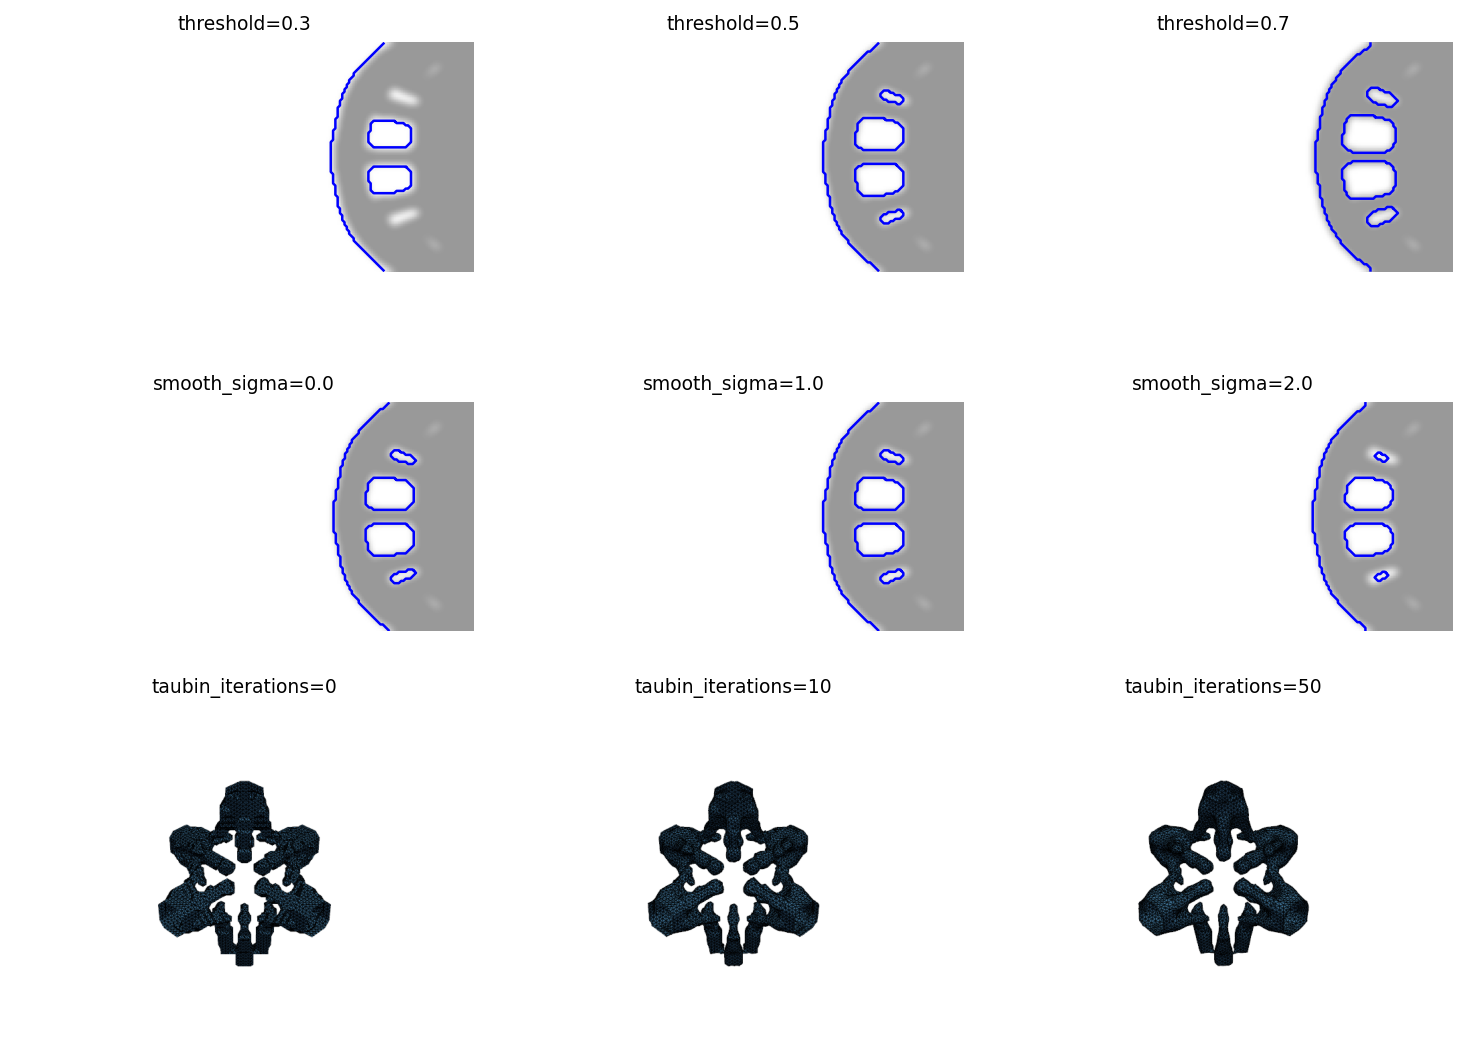
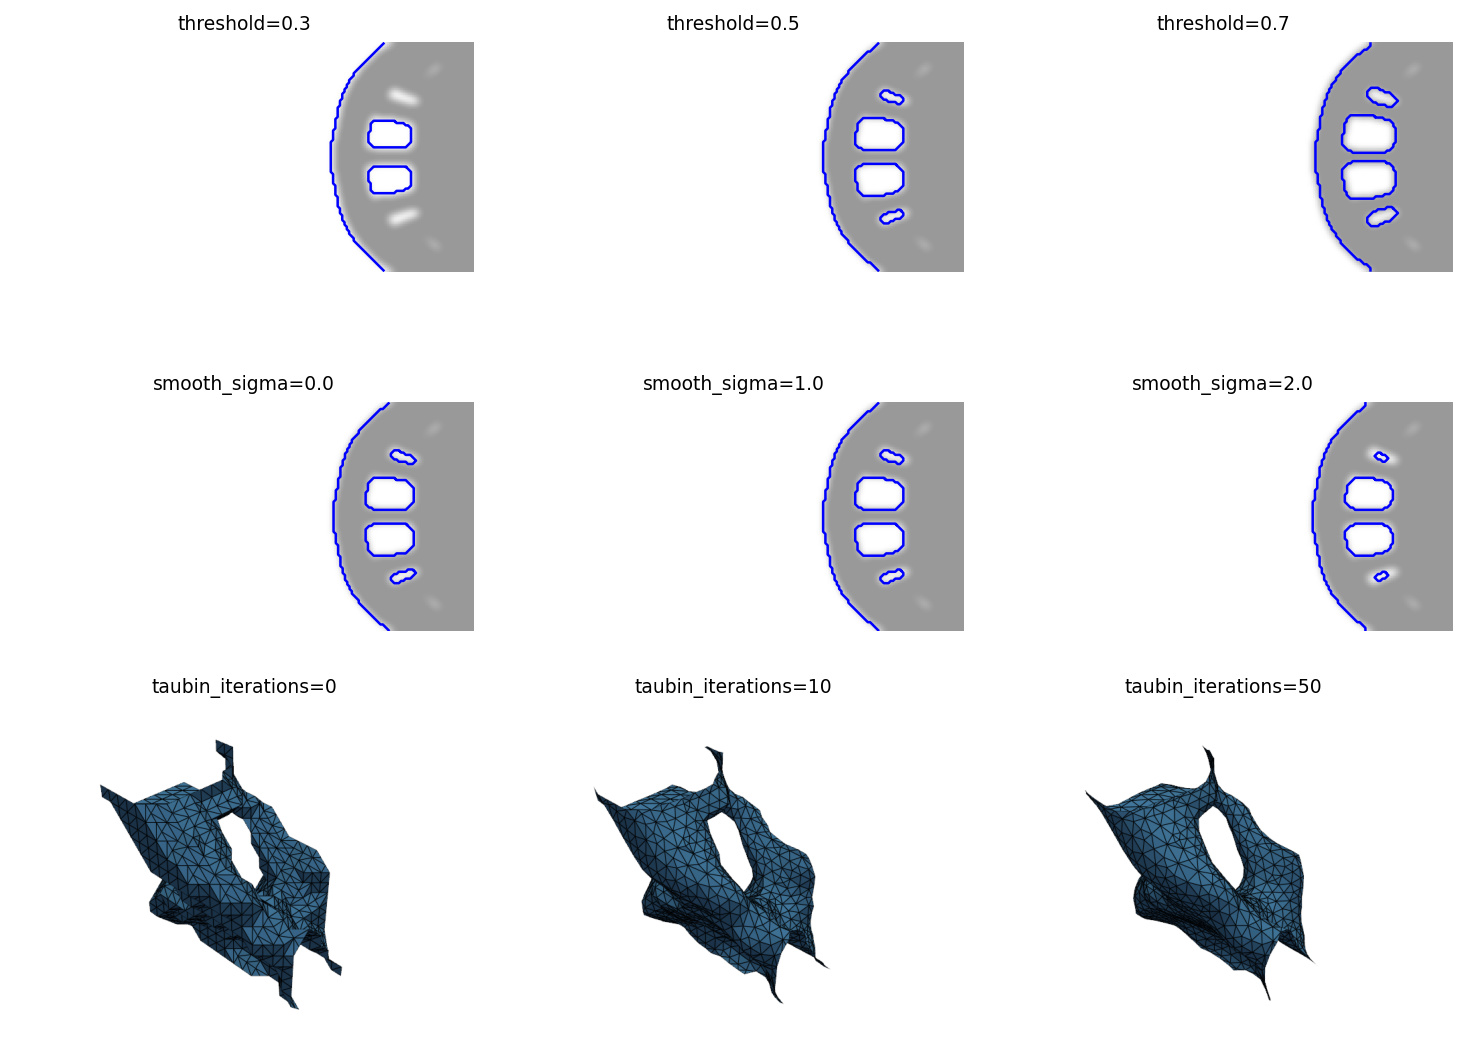
fix: address review feedback on all 5 doc illustrations
- Pipeline diagram: monochromatic blue palette, even spacing
- Pipeline stages: switch to corner model for clearer geometry
- Field types: same colormaps top/bottom, aligned colorbars
- Parameter sensitivity: thermoelastic model for visible taubin diffs
- Quality histogram: extend y-axis to prevent annotation overlap

Changed region(s): [[0.0613, 0.714, 0.2454, 0.9624], [0.7362, 0.714, 0.8896, 0.9313], [0.3988, 0.714, 0.5828, 0.9313]]

diff --git a/scripts/generate_doc_images.py b/scripts/generate_doc_images.py
@@ -22,14 +22,24 @@ OUTPUT_DIR = Path("website/public/images/guides")
 DPI = 150
 BG_COLOR = "white"
 
-# Pipeline stage colors (reused across images 1 and 2)
+# Pipeline stage colors — monochromatic blue palette, dark to light progression
+# Gives visual flow without rainbow noise
 STAGE_COLORS = {
-    "Preprocess": "#4A90D9",
-    "Extract": "#50B86C",
-    "Smooth": "#F5A623",
-    "Repair": "#D0021B",
-    "Remesh": "#9B59B6",
-    "Decimate": "#1ABC9C",
+    "Preprocess": "#1B3A5C",
+    "Extract": "#265E8A",
+    "Smooth": "#3182BD",
+    "Repair": "#6BAED6",
+    "Remesh": "#9ECAE1",
+    "Decimate": "#C6DBEF",
+}
+# Text color per stage (white on dark, dark on light)
+_STAGE_TEXT = {
+    "Preprocess": "white",
+    "Extract": "white",
+    "Smooth": "white",
+    "Repair": "#1a1a1a",
+    "Remesh": "#1a1a1a",
+    "Decimate": "#1a1a1a",
 }
 
 
@@ -65,27 +75,25 @@ def _pv_screenshot(vertices, faces, color="steelblue"):
 
 
 def gen_pipeline_diagram() -> None:
-    """Image 1: Horizontal pipeline flow diagram with 6 colored stage boxes."""
+    """Image 1: Horizontal pipeline flow diagram with even spacing and blue palette."""
+    stages = list(STAGE_COLORS.keys())
+    n_stages = len(stages)
+    # Even spacing: 8 elements (Field + 6 stages + Mesh), gap=1.5 between centers
+    gap = 1.5
+    all_labels = ["Field"] + stages + ["Mesh"]
+    all_x = [i * gap for i in range(len(all_labels))]
+    total_w = all_x[-1]
+
     fig, ax = plt.subplots(figsize=(12, 2.5))
-    ax.set_xlim(-0.5, 12.0)
-    ax.set_ylim(-1.2, 1.5)
+    ax.set_xlim(-0.8, total_w + 0.8)
+    ax.set_ylim(-1.2, 1.3)
     ax.set_aspect("equal")
     ax.axis("off")
     fig.patch.set_facecolor(BG_COLOR)
 
-    # Terminals (rounded, gray)
-    terminals = [("Field", 0.0), ("Mesh", 11.5)]
-    for label, x in terminals:
-        ax.add_patch(matplotlib.patches.FancyBboxPatch(
-            (x - 0.45, -0.3), 0.9, 0.6,
-            boxstyle="round,pad=0.1",
-            facecolor="#E0E0E0", edgecolor="#666666", linewidth=1.5,
-        ))
-        ax.text(x, 0.0, label, ha="center", va="center", fontsize=10, fontweight="bold")
+    box_hw = 0.55  # half-width
+    box_hh = 0.3   # half-height
 
-    # Stage boxes (colored)
-    stages = list(STAGE_COLORS.keys())
-    positions = [1.7, 3.4, 5.1, 6.8, 8.5, 10.0]
     param_annotations = {
         "Preprocess": "threshold\nsmooth_sigma",
         "Extract": "extraction_level",
@@ -95,29 +103,35 @@ def gen_pipeline_diagram() -> None:
         "Decimate": "decimate_ratio\ndecimate_aggressiveness",
     }
 
-    for stage, x in zip(stages, positions, strict=True):
-        color = STAGE_COLORS[stage]
+    for label, x in zip(all_labels, all_x, strict=True):
+        is_terminal = label in ("Field", "Mesh")
+        if is_terminal:
+            fc, ec, tc = "#E8E8E8", "#999999", "#333333"
+        else:
+            fc = STAGE_COLORS[label]
+            ec = "#333333"
+            tc = _STAGE_TEXT[label]
+
         ax.add_patch(matplotlib.patches.FancyBboxPatch(
-            (x - 0.55, -0.3), 1.1, 0.6,
+            (x - box_hw, -box_hh), box_hw * 2, box_hh * 2,
             boxstyle="round,pad=0.08",
-            facecolor=color, edgecolor="black", linewidth=1.2, alpha=0.85,
+            facecolor=fc, edgecolor=ec, linewidth=1.2,
         ))
-        ax.text(x, 0.0, stage, ha="center", va="center", fontsize=8.5,
-                fontweight="bold", color="white")
+        ax.text(x, 0.0, label, ha="center", va="center",
+                fontsize=9 if is_terminal else 8.5, fontweight="bold", color=tc)
 
-        # Parameter annotation below
-        if stage in param_annotations:
-            ax.text(x, -0.65, param_annotations[stage], ha="center", va="top",
-                    fontsize=5.5, color="#555555", fontstyle="italic")
+        # Parameter annotation below stage boxes
+        if label in param_annotations:
+            ax.text(x, -box_hh - 0.35, param_annotations[label],
+                    ha="center", va="top", fontsize=5.5, color="#666666",
+                    fontstyle="italic")
 
-    # Arrows between all boxes: Field -> Preprocess -> ... -> Decimate -> Mesh
-    all_x = [0.0] + positions + [11.5]
+    # Arrows
     for i in range(len(all_x) - 1):
-        x_start = all_x[i] + 0.55
-        x_end = all_x[i + 1] - 0.55
         ax.annotate(
-            "", xy=(x_end, 0.0), xytext=(x_start, 0.0),
-            arrowprops=dict(arrowstyle="->", color="#333333", lw=1.5),
+            "", xy=(all_x[i + 1] - box_hw - 0.05, 0.0),
+            xytext=(all_x[i] + box_hw + 0.05, 0.0),
+            arrowprops=dict(arrowstyle="-|>", color="#555555", lw=1.3),
         )
 
     fig.savefig(OUTPUT_DIR / "pipeline-flow.png", dpi=DPI, bbox_inches="tight",
@@ -126,15 +140,15 @@ def gen_pipeline_diagram() -> None:
 
 
 def gen_pipeline_stages() -> None:
-    """Image 2: 1x4 grid showing pipeline progression on 3D heat conduction data."""
+    """Image 2: 1x4 grid showing pipeline progression on corner 3D model."""
     import numpy as np
     from xeltofab.io import load_field
     from xeltofab.preprocess import preprocess
     from xeltofab.extract import extract
     from xeltofab.smooth import smooth
 
-    # Load real TO data
-    state = load_field("data/examples/heat_conduction_3d_51x51x51_sample0.npy")
+    # Use corner model — simpler geometry, easier to parse visually
+    state = load_field("data/examples/corner_3d_20x20x20_vf50_sample0.npy")
 
     # Run stages individually to capture intermediates
     state_pre = preprocess(state)
@@ -142,7 +156,8 @@ def gen_pipeline_stages() -> None:
     state_smo = smooth(state_ext)
 
     fig, axes = plt.subplots(1, 4, figsize=(12, 3.5))
-    titles = ["Raw Field\n(center slice)", "After Threshold\n(binary)", "Marching Cubes\n(raw mesh)", "After Smoothing"]
+    titles = ["Raw Field\n(center slice)", "After Threshold\n(binary)",
+              "Marching Cubes\n(raw mesh)", "After Smoothing"]
 
     # Panel 1: Center slice of raw density field
     field = state.field
@@ -197,7 +212,9 @@ def gen_field_types() -> None:
     state_sdf = PipelineState(field=sdf_field, params=params_sdf)
     result_sdf = process(state_sdf)
 
-    fig, axes = plt.subplots(2, 2, figsize=(10, 5))
+    vmax_sdf = np.abs(sdf_field).max()
+
+    fig, axes = plt.subplots(2, 2, figsize=(10, 5.5))
 
     # Top-left: Density field heatmap
     im0 = axes[0, 0].imshow(state_density.field, cmap="YlOrRd", origin="lower",
@@ -207,28 +224,33 @@ def gen_field_types() -> None:
     fig.colorbar(im0, ax=axes[0, 0], fraction=0.046, pad=0.04)
 
     # Top-right: SDF field heatmap
-    vmax = np.abs(sdf_field).max()
     im1 = axes[0, 1].imshow(sdf_field, cmap="RdBu", origin="lower",
-                             vmin=-vmax, vmax=vmax)
+                             vmin=-vmax_sdf, vmax=vmax_sdf)
     axes[0, 1].set_title("SDF Field (signed distance)", fontsize=10)
     axes[0, 1].axis("off")
     fig.colorbar(im1, ax=axes[0, 1], fraction=0.046, pad=0.04)
 
-    # Bottom-left: Density field with extracted contours at threshold=0.5
-    axes[1, 0].imshow(state_density.field, cmap="gray_r", origin="lower", alpha=0.5)
+    # Bottom-left: Same density colormap + extracted contours at threshold=0.5
+    im2 = axes[1, 0].imshow(state_density.field, cmap="YlOrRd", origin="lower",
+                             vmin=0, vmax=1)
     if result_density.contours:
         for contour in result_density.contours:
-            axes[1, 0].plot(contour[:, 1], contour[:, 0], "b-", linewidth=1.5)
+            axes[1, 0].plot(contour[:, 1], contour[:, 0], color="#1a1a1a",
+                            linewidth=2.0)
     axes[1, 0].set_title("Extracted at threshold=0.5", fontsize=10)
     axes[1, 0].axis("off")
+    fig.colorbar(im2, ax=axes[1, 0], fraction=0.046, pad=0.04)
 
-    # Bottom-right: SDF field with extracted contours at level=0
-    axes[1, 1].imshow(sdf_field, cmap="gray", origin="lower", alpha=0.4)
+    # Bottom-right: Same SDF colormap + extracted contours at level=0
+    im3 = axes[1, 1].imshow(sdf_field, cmap="RdBu", origin="lower",
+                             vmin=-vmax_sdf, vmax=vmax_sdf)
     if result_sdf.contours:
         for contour in result_sdf.contours:
-            axes[1, 1].plot(contour[:, 1], contour[:, 0], "r-", linewidth=1.5)
+            axes[1, 1].plot(contour[:, 1], contour[:, 0], color="#1a1a1a",
+                            linewidth=2.0)
     axes[1, 1].set_title("Extracted at level=0.0", fontsize=10)
     axes[1, 1].axis("off")
+    fig.colorbar(im3, ax=axes[1, 1], fraction=0.046, pad=0.04)
 
     fig.patch.set_facecolor(BG_COLOR)
     fig.tight_layout(pad=1.5)
@@ -246,9 +268,9 @@ def gen_parameter_sensitivity() -> None:
     from xeltofab.smooth import smooth
     from xeltofab.state import PipelineParams
 
-    # Load data
+    # Load data — thermoelastic is coarser (16^3), making smoothing diffs visible
     state_2d = load_field("data/examples/beams_2d_100x200_sample0.npy")
-    state_3d = load_field("data/examples/heat_conduction_3d_51x51x51_sample0.npy")
+    state_3d = load_field("data/examples/thermoelastic_3d_16x16x16_sample0.npy")
 
     fig, axes = plt.subplots(3, 3, figsize=(10, 7.5))
     fig.patch.set_facecolor(BG_COLOR)
@@ -359,15 +381,22 @@ def gen_quality_metrics() -> None:
     ax_left.axis("off")
 
     # Right: histogram
-    ax_right.hist(values, bins=50, edgecolor="black", linewidth=0.5, alpha=0.8,
-                  color="#4A90D9")
-    ax_right.axvline(threshold, color="red", linestyle="--", linewidth=2,
+    counts, bin_edges, patches = ax_right.hist(
+        values, bins=50, edgecolor="black", linewidth=0.5, alpha=0.8,
+        color="#3182BD",
+    )
+    ax_right.axvline(threshold, color="#D0021B", linestyle="--", linewidth=2,
                      label=f"FEA threshold ({threshold})")
+
+    # Extend y-axis to make room for annotation above bars
+    y_max = counts.max()
+    ax_right.set_ylim(0, y_max * 1.35)
+
     direction = ">=" if _HIGHER_IS_BETTER[metric] else "<="
     ax_right.annotate(
         f"{pass_pct:.1f}% pass ({direction} {threshold})\n"
         f"mean={np.mean(values):.2f}, median={np.median(values):.2f}",
-        xy=(0.97, 0.95), xycoords="axes fraction", ha="right", va="top",
+        xy=(0.97, 0.97), xycoords="axes fraction", ha="right", va="top",
         fontsize=9, bbox=dict(boxstyle="round,pad=0.3", facecolor="wheat", alpha=0.8),
     )
     ax_right.set_xlabel(_METRIC_LABELS[metric], fontsize=10)
